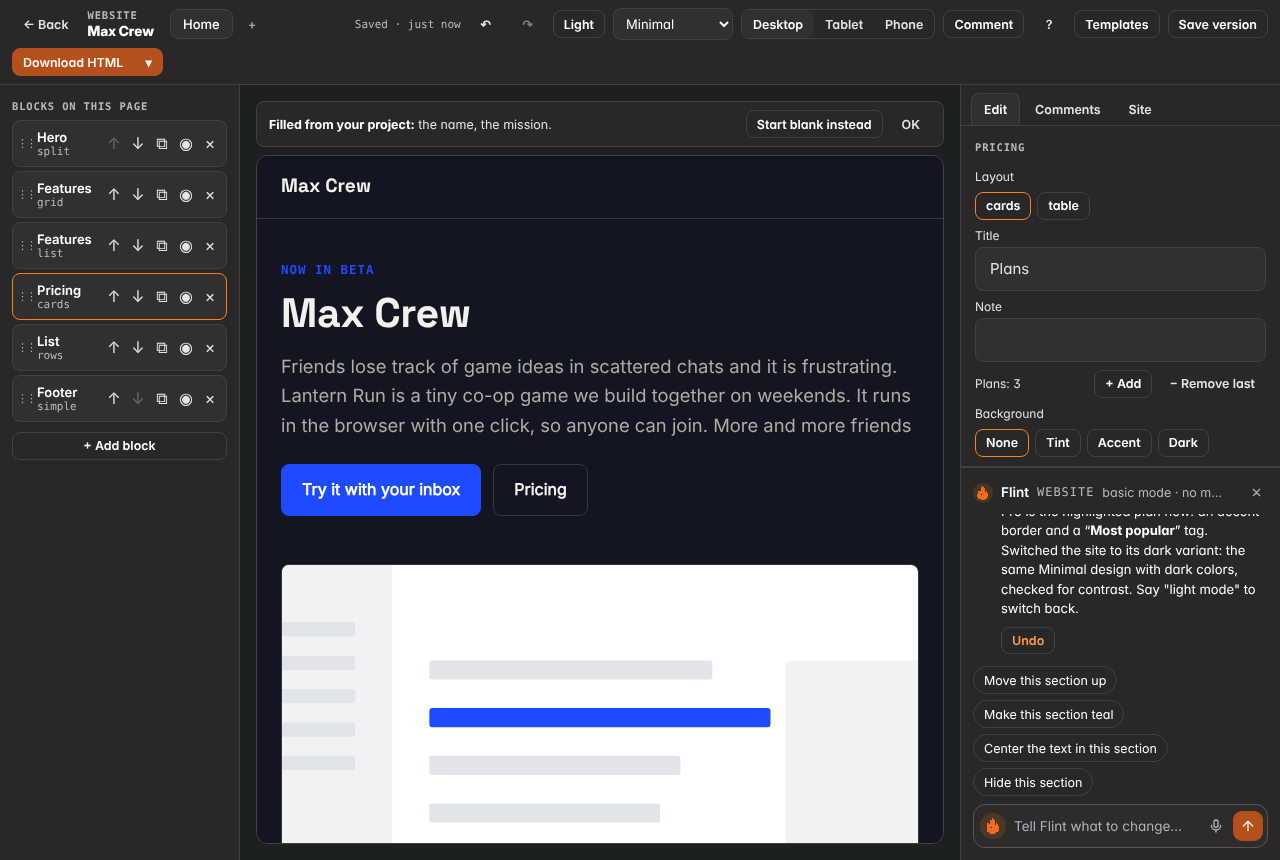
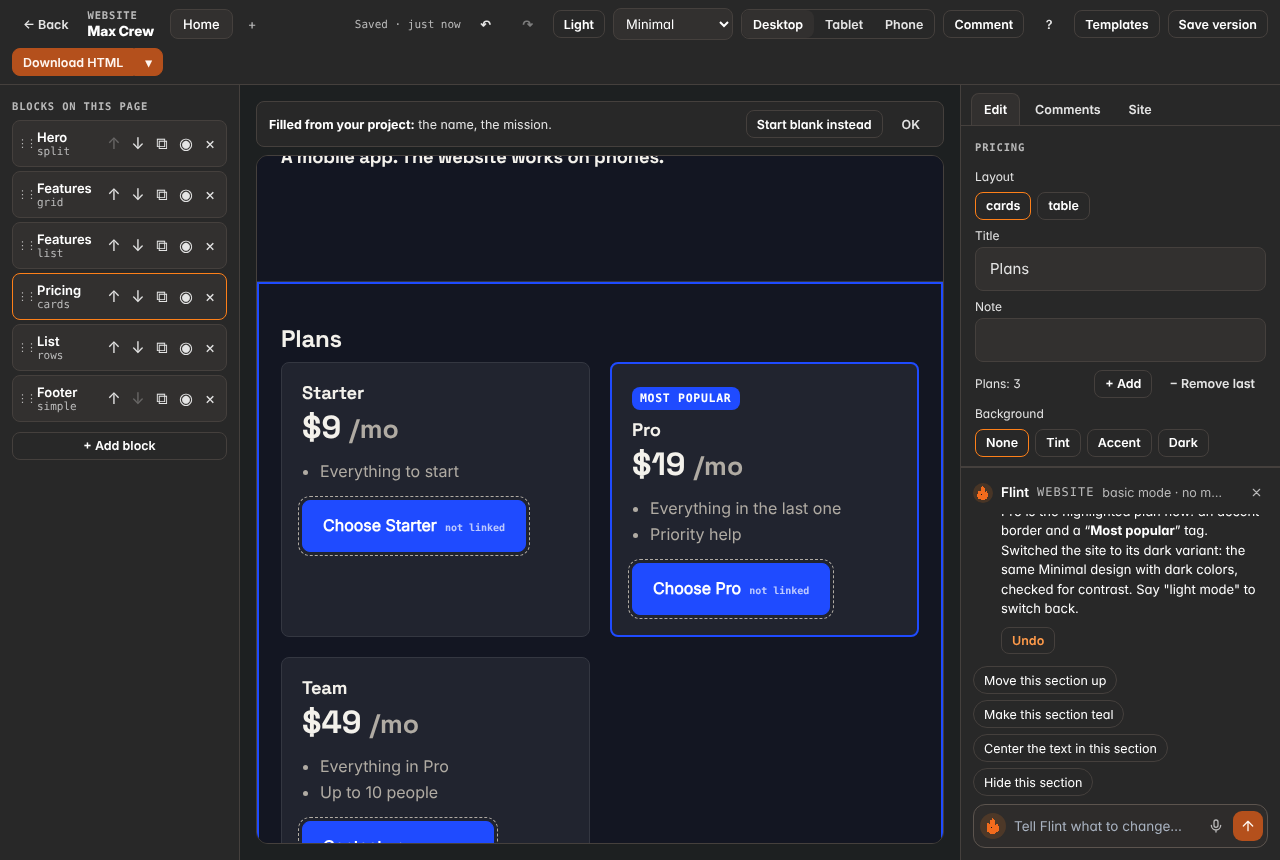
e2e_flint_max in npm test; the compose screenshot shows the highlighted plan
Claude-Session: https://claude.ai/code/session_01Twew38tmNVdwNycXqatzin

Changed region(s): [[0.2188, 0.3023, 0.7188, 0.9977], [0.2188, 0.1814, 0.5312, 0.2419]]

diff --git a/app/test/e2e_flint_max.py b/app/test/e2e_flint_max.py
@@ -154,6 +154,7 @@ def main():
             assert cfg(pg)["theme"]["mode"] == "dark", out
             assert pg.evaluate("TribeSiteDesigner.state().hist") == hist0 + 1, "three steps are one Undo"
             assert "most popular" in pg.frame_locator("#wdz-frame").locator(".plan.hot").inner_text().lower()
+            pg.frame_locator("#wdz-frame").locator(".plan.hot").evaluate("e => e.scrollIntoView({ block: 'center' })")
             shot(pg, "flint-compose.png")
             fask(pg, "designer", "undo that")
             assert cfg(pg)["theme"]["mode"] == mode0 and pg.evaluate("TribeSiteDesigner.state().hist") == hist0, "undo that takes all three back"
